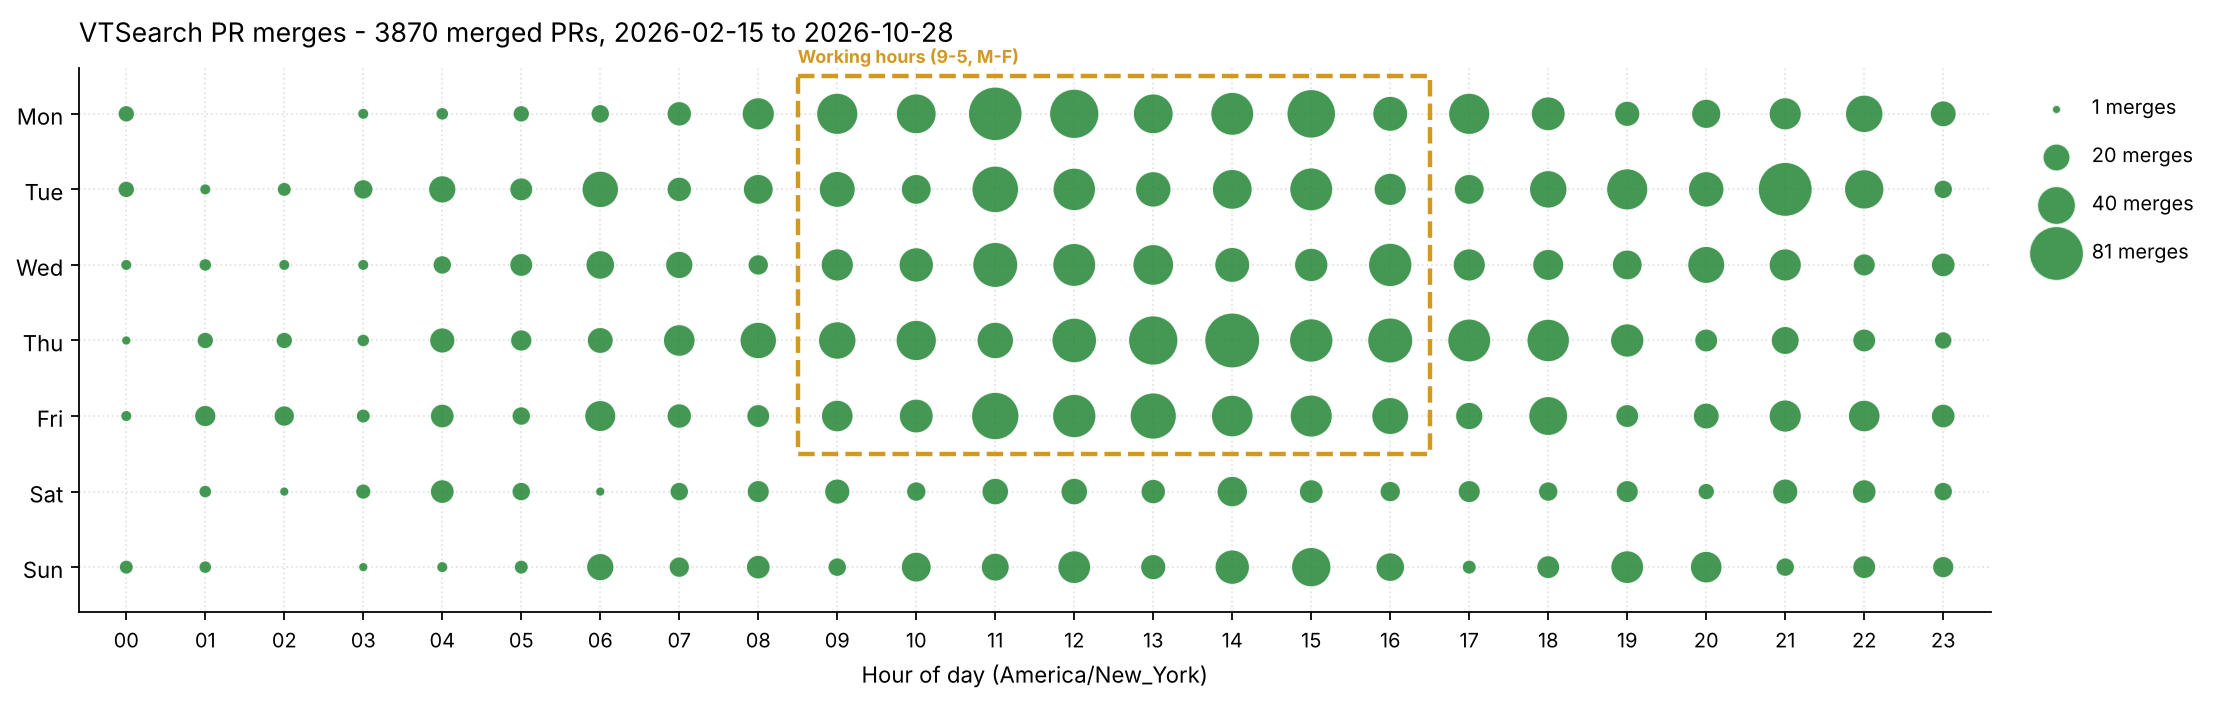
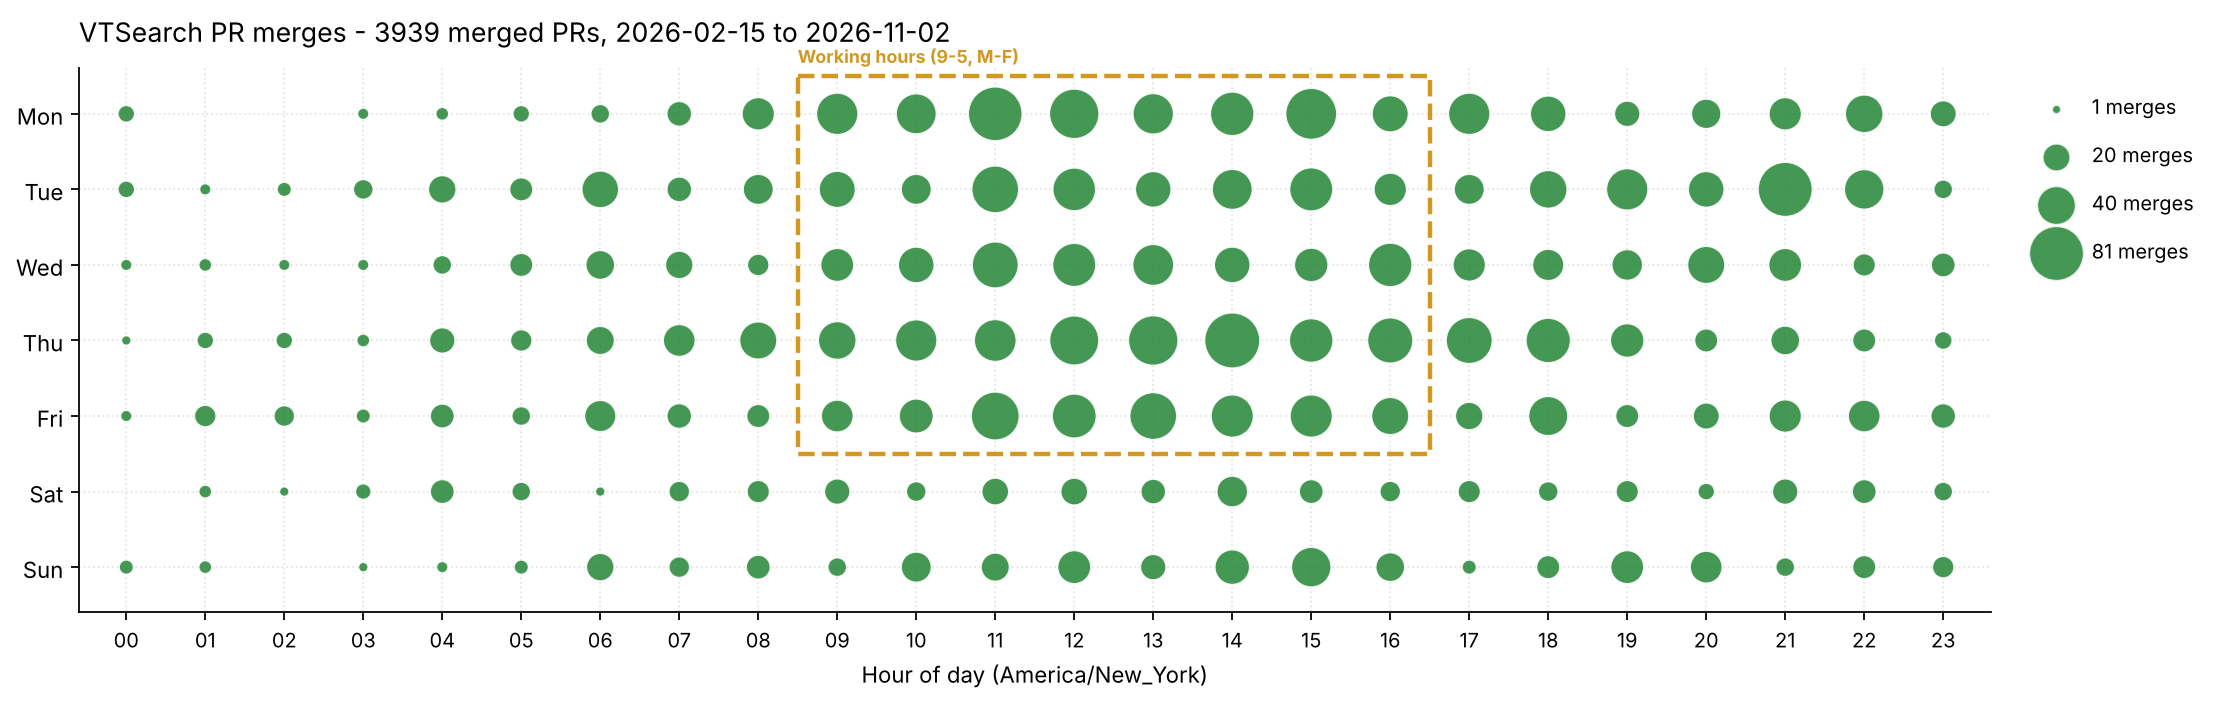
Release 2026-11-03: punch card for 69 PRs; date the changelog
Claude-Session: https://claude.ai/code/session_01HXSmm1Pxb2vwMB9H6z49HC

Changed region(s): [[0.1551, 0.0312, 0.4342, 0.0625], [0.4342, 0.4688, 0.4652, 0.5]]

diff --git a/CHANGELOG.md b/CHANGELOG.md
@@ -20,54 +20,7 @@ what is on `dev` but not yet on `main`; each release dates that section
 
 ## Unreleased
 
-### Added
-
-- **The domain warning reaches Find and AutoFind** (issue #5501). Tune's warning that a dataset looks unlike the one a
-  detector was trained on ("68% of this dataset looks atypical vs photos: likely domain shift") now runs for every
-  detector of a Find or AutoFind: the Find Results dialog shows it under its summary, an AutoFind's finished notice
-  turns to a warning naming the detector, and the exported results carry the figure, which the email exporter prints
-  under each detector and flags in its subject. The training dataset no longer has to be loaded: a detector remembers
-  the dataset it was trained or tuned on, and the check reads that dataset from disk, so a run after a restart or an
-  AutoFind on a fresh import still warns. See [Trust a detector](docs/user/howto/trust-a-detector.md).
-
-- **Tune's test looks like every other Autopilot, and a slip can be put right** (issue #5502). The test's picks
-  come one at a time in the ordinary centre panel, as in Train: the line saying which band the picks are drawn
-  from, the round's dots and the arrow-key line are gone, and the image tools and the Metadata tray are there. The
-  phase lights on the left still say how far the test has got. `↓` now walks back through every pick voted, from
-  any round and from the verdict at Done, with its vote lit, and voting it again corrects it; before, a round's
-  last vote sealed the round, so a slip on it could not be undone. The verdict follows the correction.
-
-- **Usage metrics** (issue #5475). The app now records which features people use, so whoever runs a server can see
-  whether anyone opens Browse, which exporters and importers they pick, and which display options and settings they ever
-  change. Each event (a view opened, a dataset imported, results exported, a setting changed, a tagged control clicked)
-  becomes one line in `data/metrics/events-YYYY-MM.jsonl`, under the user who did it; nothing leaves the server. Set
-  `"enable_metrics": false` in `data/settings.json` to stop recording. A deployment that builds its own frontend can
-  send the events elsewhere by supplying its own `METRICS_PROVIDER`. The line format and every event are listed in
-  [DEPLOYMENT.md](docs/DEPLOYMENT.md#usage-metrics).
-
-- **An import alert can say what the import left out** (issue #5449). The event a server's
-  `--on-dataset-imported` functions receive now carries how many items the import brought in (`n_imported`) and the
-  items it dropped because they could not be read (`n_dropped`, and `dropped`: each item's name, grouped by
-  reason), so an alert email can tell you which files to look into. The
-  [extension guide](docs/EXTENDING.md#dataset-import-hooks) shows a mailer that lists them.
-
-- **New Detector's Pick from Dataset grid is usable on a large Face dataset** (issue #5465). The faces come in
-  similarity order, so one person's crops sit together: a 1-D UMAP of the face vectors, fit when a Face dataset is
-  built and kept beside it (a Face dataset built earlier is ordered the first time its grid opens). A search box keeps
-  the items whose name holds every word typed, so a photo's name finds all the faces cropped from it. The grid has the
-  same smaller/bigger thumbnail buttons as every other grid, remembered per media type. Its scrollbar is sized for the
-  whole dataset from the start, and a jump down the list loads only the thumbnails where it lands rather than every
-  row it passed. Face crops now carry a small precomputed thumbnail, so a tile no longer decodes and resizes its crop
-  on request; a Face dataset built before this gets its thumbnails on its next save.
-
-- **`--max-results N` writes a streamed run's best hits, sorted** (issue #5279). A `--stream-results` run writes each
-  chunk's hits as it scores them, so its output is ordered by chunk and had to be sorted afterwards. With
-  `--max-results N` the run keeps each detector's N highest-scoring hits as it goes and writes them sorted by score,
-  highest first, once the last chunk is scored. Memory stays at N hits per detector however large the source. The
-  NDJSON `_meta` line records `max_results`, `--keep-negatives` lets the below-threshold items fill the places the
-  hits leave, and it works with `--as-labelset` and every streaming exporter. A pipeline file sets it as
-  `max_results:`. It cannot be combined with `--resume`. See
-  [`docs/CLI.md`](docs/CLI.md#large-datasets-chunking-and-streaming).
+## 2026-11-03
 
 ### Changed
 
@@ -131,6 +84,55 @@ what is on `dev` but not yet on `main`; each release dates that section
 - **A multi-dataset import's names no longer carry a badge** (issue #5461). Each dataset one import produced showed
   a badge with its kind of media after its name, so a face dataset read "Photos – Face", then **Face**, then
   **Face** again in the Type column. The badge is gone; hover the name to see the datasets it was imported with.
+
+### Added
+
+- **The domain warning reaches Find and AutoFind** (issue #5501). Tune's warning that a dataset looks unlike the one a
+  detector was trained on ("68% of this dataset looks atypical vs photos: likely domain shift") now runs for every
+  detector of a Find or AutoFind: the Find Results dialog shows it under its summary, an AutoFind's finished notice
+  turns to a warning naming the detector, and the exported results carry the figure, which the email exporter prints
+  under each detector and flags in its subject. The training dataset no longer has to be loaded: a detector remembers
+  the dataset it was trained or tuned on, and the check reads that dataset from disk, so a run after a restart or an
+  AutoFind on a fresh import still warns. See [Trust a detector](docs/user/howto/trust-a-detector.md).
+
+- **Tune's test looks like every other Autopilot, and a slip can be put right** (issue #5502). The test's picks
+  come one at a time in the ordinary centre panel, as in Train: the line saying which band the picks are drawn
+  from, the round's dots and the arrow-key line are gone, and the image tools and the Metadata tray are there. The
+  phase lights on the left still say how far the test has got. `↓` now walks back through every pick voted, from
+  any round and from the verdict at Done, with its vote lit, and voting it again corrects it; before, a round's
+  last vote sealed the round, so a slip on it could not be undone. The verdict follows the correction.
+
+- **Usage metrics** (issue #5475). The app now records which features people use, so whoever runs a server can see
+  whether anyone opens Browse, which exporters and importers they pick, and which display options and settings they ever
+  change. Each event (a view opened, a dataset imported, results exported, a setting changed, a tagged control clicked)
+  becomes one line in `data/metrics/events-YYYY-MM.jsonl`, under the user who did it; nothing leaves the server. Set
+  `"enable_metrics": false` in `data/settings.json` to stop recording. A deployment that builds its own frontend can
+  send the events elsewhere by supplying its own `METRICS_PROVIDER`. The line format and every event are listed in
+  [DEPLOYMENT.md](docs/DEPLOYMENT.md#usage-metrics).
+
+- **An import alert can say what the import left out** (issue #5449). The event a server's
+  `--on-dataset-imported` functions receive now carries how many items the import brought in (`n_imported`) and the
+  items it dropped because they could not be read (`n_dropped`, and `dropped`: each item's name, grouped by
+  reason), so an alert email can tell you which files to look into. The
+  [extension guide](docs/EXTENDING.md#dataset-import-hooks) shows a mailer that lists them.
+
+- **New Detector's Pick from Dataset grid is usable on a large Face dataset** (issue #5465). The faces come in
+  similarity order, so one person's crops sit together: a 1-D UMAP of the face vectors, fit when a Face dataset is
+  built and kept beside it (a Face dataset built earlier is ordered the first time its grid opens). A search box keeps
+  the items whose name holds every word typed, so a photo's name finds all the faces cropped from it. The grid has the
+  same smaller/bigger thumbnail buttons as every other grid, remembered per media type. Its scrollbar is sized for the
+  whole dataset from the start, and a jump down the list loads only the thumbnails where it lands rather than every
+  row it passed. Face crops now carry a small precomputed thumbnail, so a tile no longer decodes and resizes its crop
+  on request; a Face dataset built before this gets its thumbnails on its next save.
+
+- **`--max-results N` writes a streamed run's best hits, sorted** (issue #5279). A `--stream-results` run writes each
+  chunk's hits as it scores them, so its output is ordered by chunk and had to be sorted afterwards. With
+  `--max-results N` the run keeps each detector's N highest-scoring hits as it goes and writes them sorted by score,
+  highest first, once the last chunk is scored. Memory stays at N hits per detector however large the source. The
+  NDJSON `_meta` line records `max_results`, `--keep-negatives` lets the below-threshold items fill the places the
+  hits leave, and it works with `--as-labelset` and every streaming exporter. A pipeline file sets it as
+  `max_results:`. It cannot be combined with `--resume`. See
+  [`docs/CLI.md`](docs/CLI.md#large-datasets-chunking-and-streaming).
 
 ### Fixed
 
